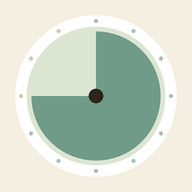
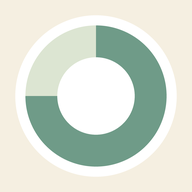
style: remove minute dots around the plate for a simpler circle

diff --git a/pomodoro.js b/pomodoro.js
@@ -3,7 +3,6 @@ const viewButtons = document.querySelectorAll('.view-switch__btn');
 const views = { plate: document.getElementById('view-plate'), bar: document.getElementById('view-bar'), glass: document.getElementById('view-glass'), sky: document.getElementById('view-sky'), balls: document.getElementById('view-balls') };
 
 const plateWedge = document.getElementById('plate-wedge');
-const plateDots = document.getElementById('plate-dots');
 const plateTime = document.getElementById('plate-time');
 const platePhase = document.getElementById('plate-phase');
 
@@ -57,13 +56,12 @@ let totalMs = 25 * 60 * 1000;
 let remainingMs = totalMs;
 let endAt = 0;        // 動いている間の終了予定時刻（performance.now 基準）
 let lastShownSec = -1;
-let stepCount = 25;   // 円のドットの数（1分ごと。60を超える時はまとめる）
 const BAR_COUNT = 20; // バーは分数に関係なく常に20本
 let glassFlipping = false; // 砂時計が回転している間は砂を止めて見せる
 let glassFrozenRatio = 0;
 const GLASS = { neck: 130, topMax: 80, bottomBase: 220, bottomMax: 72 };
 
-const PLATE = { cx: 100, cy: 100, wedgeR: 74, dotR: 84 };
+const PLATE = { cx: 100, cy: 100, wedgeR: 84 };
 const PHASE_LABEL = { work: '集中タイム', break: 'ひと休み' };
 
 // --- Audio System (Web Audio API) ---
@@ -267,20 +265,6 @@ function wedgePath(ratio) {
 }
 
 function buildSteps(minutes) {
-    // 円：1分ごとにドットを1つ（60分を超える時は60個にまとめる）
-    stepCount = Math.min(minutes, 60);
-    plateDots.innerHTML = '';
-    const dotR = stepCount > 40 ? 2.2 : 3;
-    for (let i = 0; i < stepCount; i++) {
-        const [x, y] = polar(PLATE.dotR, (i + 0.5) / stepCount);
-        const dot = document.createElementNS('http://www.w3.org/2000/svg', 'circle');
-        dot.setAttribute('cx', x.toFixed(2));
-        dot.setAttribute('cy', y.toFixed(2));
-        dot.setAttribute('r', dotR);
-        dot.classList.add('dot');
-        plateDots.appendChild(dot);
-    }
-
     // バー：常に20本。1本は「設定時間の1/20」ぶん（例：5分なら15秒、10分なら30秒）
     if (barSteps.children.length !== BAR_COUNT) {
         barSteps.innerHTML = '';
@@ -292,16 +276,6 @@ function buildSteps(minutes) {
             step.appendChild(fill);
             barSteps.appendChild(step);
         }
-    }
-}
-
-function paintDots(ratio) {
-    const remainingSteps = Math.ceil(ratio * stepCount);
-    const dots = plateDots.children;
-    for (let i = 0; i < stepCount; i++) {
-        // 反時計回りに並べているので、i が小さいほど12時に近い＝最後まで残る
-        dots[i].classList.toggle('is-spent', i >= remainingSteps);
-        dots[i].classList.toggle('is-current', i === remainingSteps - 1);
     }
 }
 
@@ -562,11 +536,10 @@ function currentRemaining() {
     return isRunning ? Math.max(0, endAt - performance.now()) : remainingMs;
 }
 
-// 絵（扇形・ドット・バー）：毎フレーム呼んで滑らかに動かす
+// 絵（扇形・バーなど）：毎フレーム呼んで滑らかに動かす
 function renderShapes() {
     const ratio = Math.min(1, currentRemaining() / totalMs);
     plateWedge.setAttribute('d', wedgePath(ratio));
-    paintDots(ratio);
     paintBar(ratio);
     paintGlass(glassFlipping ? glassFrozenRatio : ratio);
     paintSky(ratio);

diff --git a/index.html b/index.html
@@ -23,7 +23,7 @@
     <link rel="preconnect" href="https://fonts.gstatic.com" crossorigin>
     <link href="https://fonts.googleapis.com/css2?family=Nunito:wght@600;800&family=Zen+Maru+Gothic:wght@400;500;700&display=swap" rel="stylesheet">
 
-    <link rel="stylesheet" href="style.css?v=8">
+    <link rel="stylesheet" href="style.css?v=9">
 </head>
 <body class="is-focus">
     <div class="page">
@@ -39,13 +39,12 @@
         </header>
 
         <main class="stage">
-            <!-- 円の表示（TIME TIMER風の扇形＋1分ごとのドット） -->
+            <!-- 円の表示（TIME TIMER風の扇形） -->
             <section class="view view--plate is-active" id="view-plate" aria-label="円のタイマー">
                 <svg class="plate" viewBox="0 0 200 200" aria-hidden="true">
                     <circle class="plate__dish" cx="100" cy="100" r="96" />
                     <circle class="plate__rim" cx="100" cy="100" r="84" />
                     <path class="plate__wedge" id="plate-wedge" d="" />
-                    <g id="plate-dots"></g>
                     <circle class="plate__hub" cx="100" cy="100" r="46" />
                 </svg>
                 <div class="plate__readout">
@@ -174,7 +173,7 @@
             <p>Created by Ushi ／ <a href="https://github.com/Ushi54/pomodoro-timer" target="_blank" rel="noopener">GitHub</a></p>
         </footer>
     </div>
-    <script src="pomodoro.js?v=8"></script>
+    <script src="pomodoro.js?v=9"></script>
     <script>
         if ('serviceWorker' in navigator) {
             navigator.serviceWorker.register('sw.js');

diff --git a/style.css b/style.css
@@ -141,28 +141,6 @@ body {
     fill: var(--plate);
 }
 
-.dot {
-    fill: var(--mode);
-    transition: fill 0.6s ease, opacity 0.4s ease;
-}
-
-.dot.is-spent {
-    fill: var(--mode-soft);
-    opacity: 0.45;
-}
-
-/* 今の1分だけ、ゆっくり呼吸する（動くのはここだけ） */
-body.is-running .dot.is-current {
-    animation: breathe 4s ease-in-out infinite;
-    transform-box: fill-box;
-    transform-origin: center;
-}
-
-@keyframes breathe {
-    0%, 100% { opacity: 1; transform: scale(1); }
-    50% { opacity: 0.45; transform: scale(0.8); }
-}
-
 .plate__readout {
     position: absolute;
     inset: 0;

diff --git a/README.md b/README.md
@@ -6,7 +6,7 @@
 
 `frontend-design`（Anthropic公式スキル）と自作の `design_system` スキルを使って、見た目と操作を作り直したバージョンです。機能（集中／休憩の切り替え、時間の設定、環境音、円／バーの表示）はv1と同じです。
 
-- **主役は「お皿」ひとつ**：TIME TIMER風の扇形に、1分ごとのドットを縁に並べた。過ぎた分のドットは薄くなり、今の1分だけがゆっくり呼吸する（動くのはここだけ）。
+- **主役は「お皿」ひとつ**：TIME TIMER風の緑の扇形が、時間とともになめらかに減っていく。周りの飾りは置かないシンプルな円。
 - **砂時計の表示**：円・バーに加えて3つ目の表示。上から下へ砂が落ち、落ちている砂の筋も見える。集中と休憩が切り替わる時に砂時計が180度回転して、また砂が落ち始める（動きを減らす設定の時は回転しない）。
 - **空の表示**：4つ目の表示。集中中は太陽が左の地平線から昇り、半円を描いて右の地平線に沈む（背景は雲のある昼の空）。休憩中は三日月が同じように進む（背景は星空）。昼と夜は1.5秒かけて切り替わる。色はdesign_systemのパレット内で表現（昼＝セージの空＋白い雲、夜＝こげ茶からセージのグラデーション＋白い星）。
 - **ボールの表示**：5つ目の表示。集中中は箱の中をボールが跳ね回り（ボール同士もぶつかる）、10秒ごとに1個増える。ボールの大きさは分数から決まり、最後の10秒は箱がいっぱいの状態になる（1分＝大きいボール6個、5分＝30個、20分＝120個、25分＝150個）。休憩中は雨が降って水がたまり、休憩の終わりにちょうど満杯になる。
